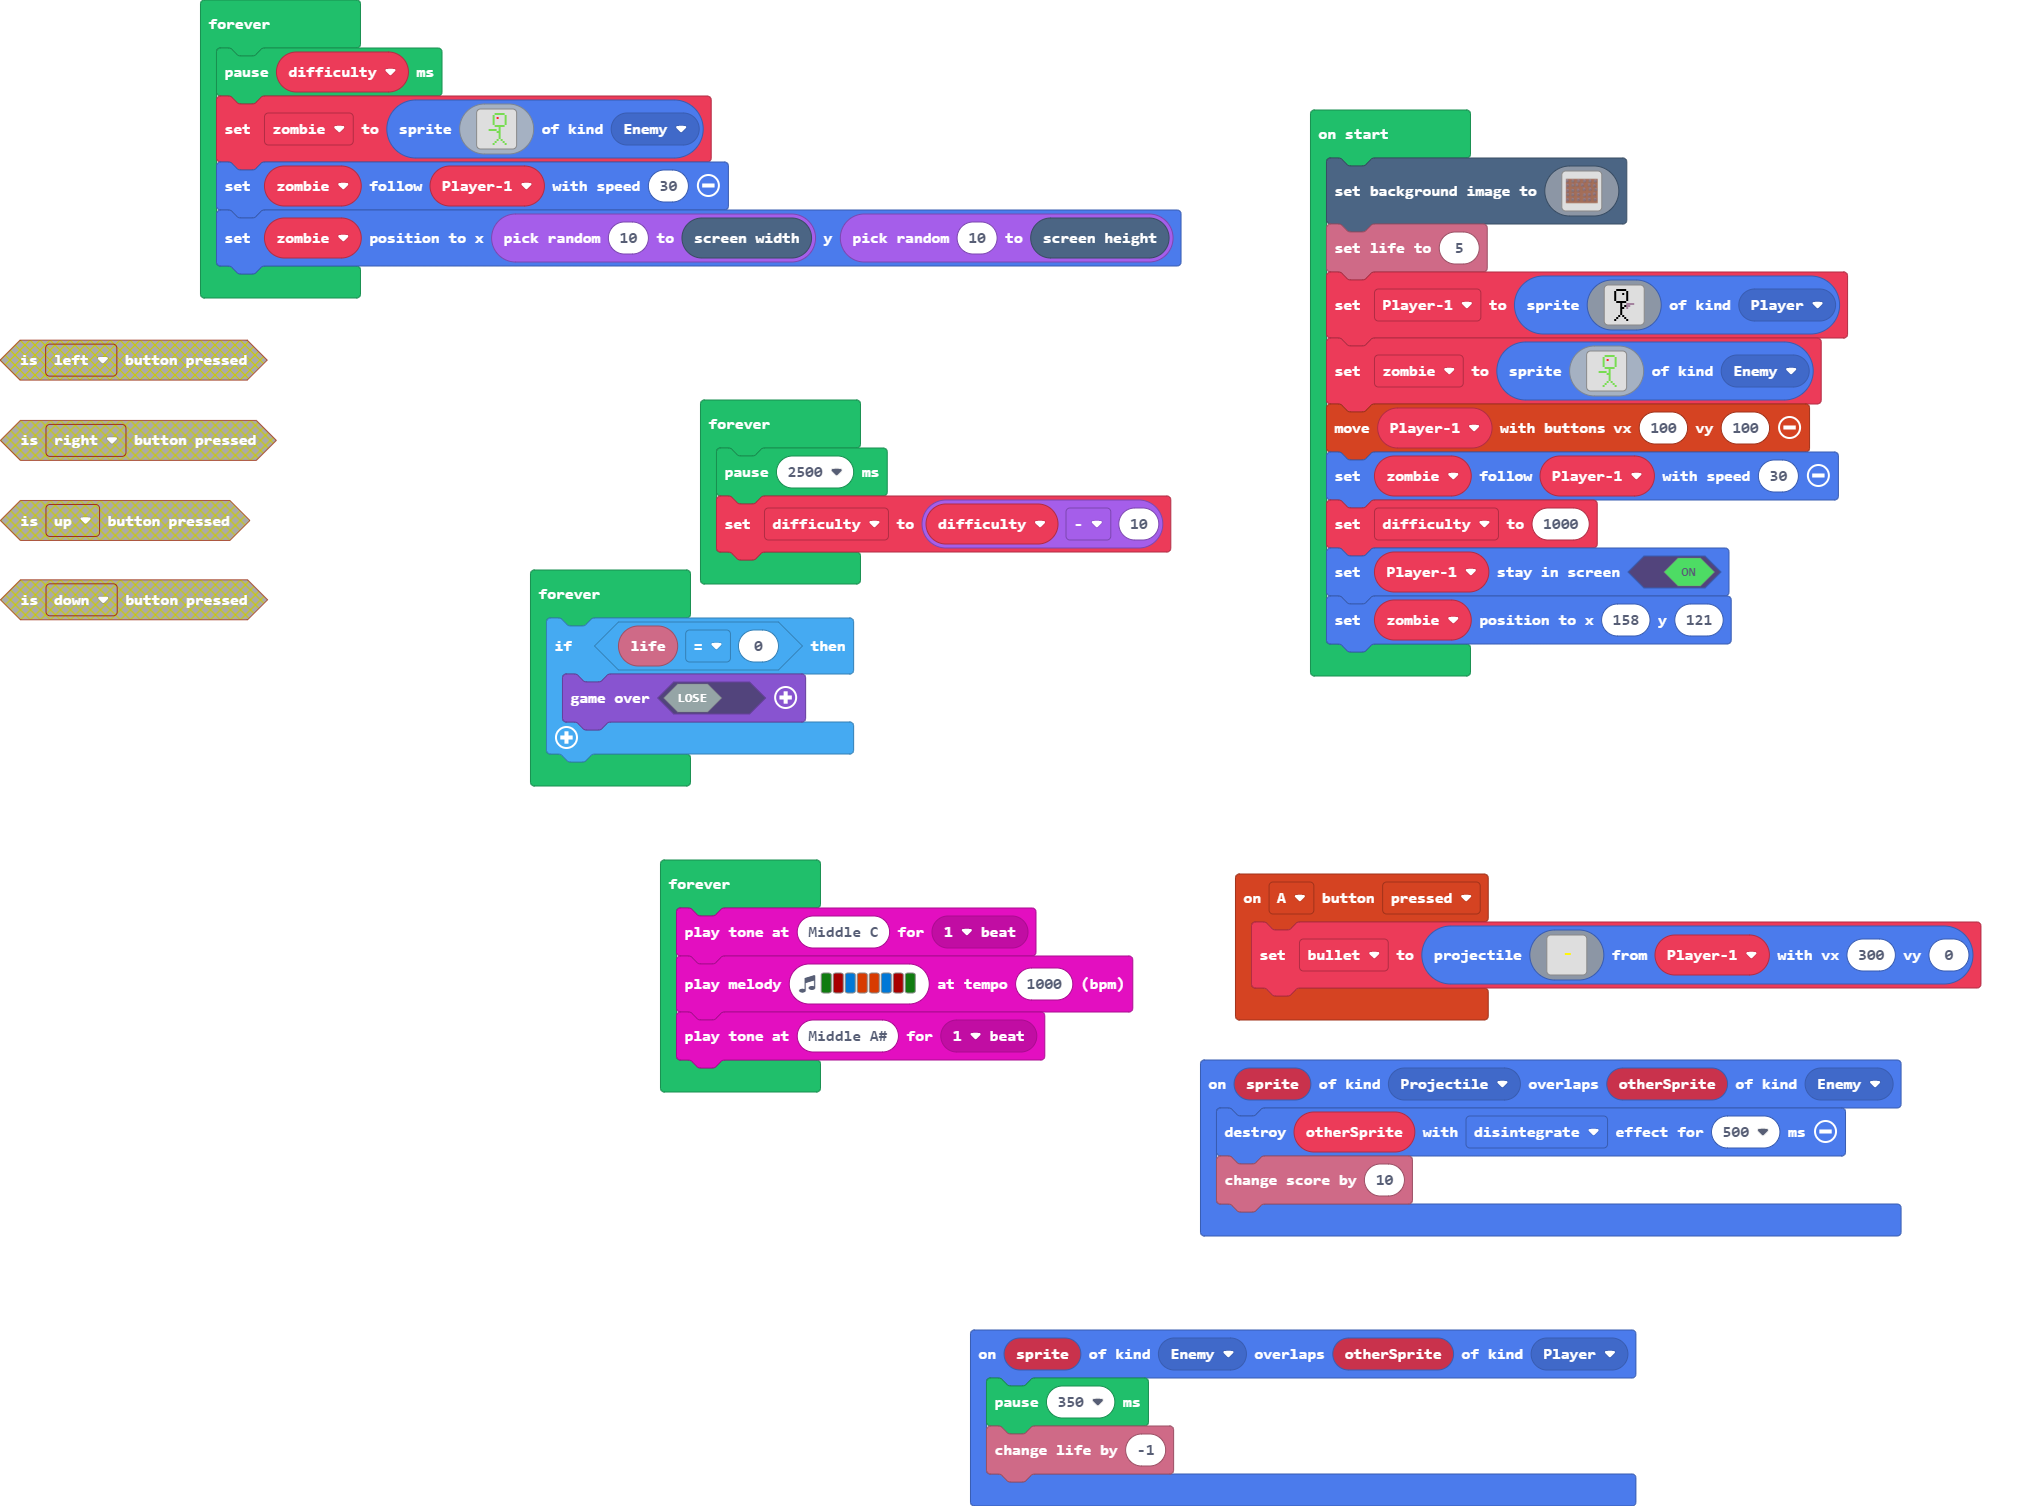
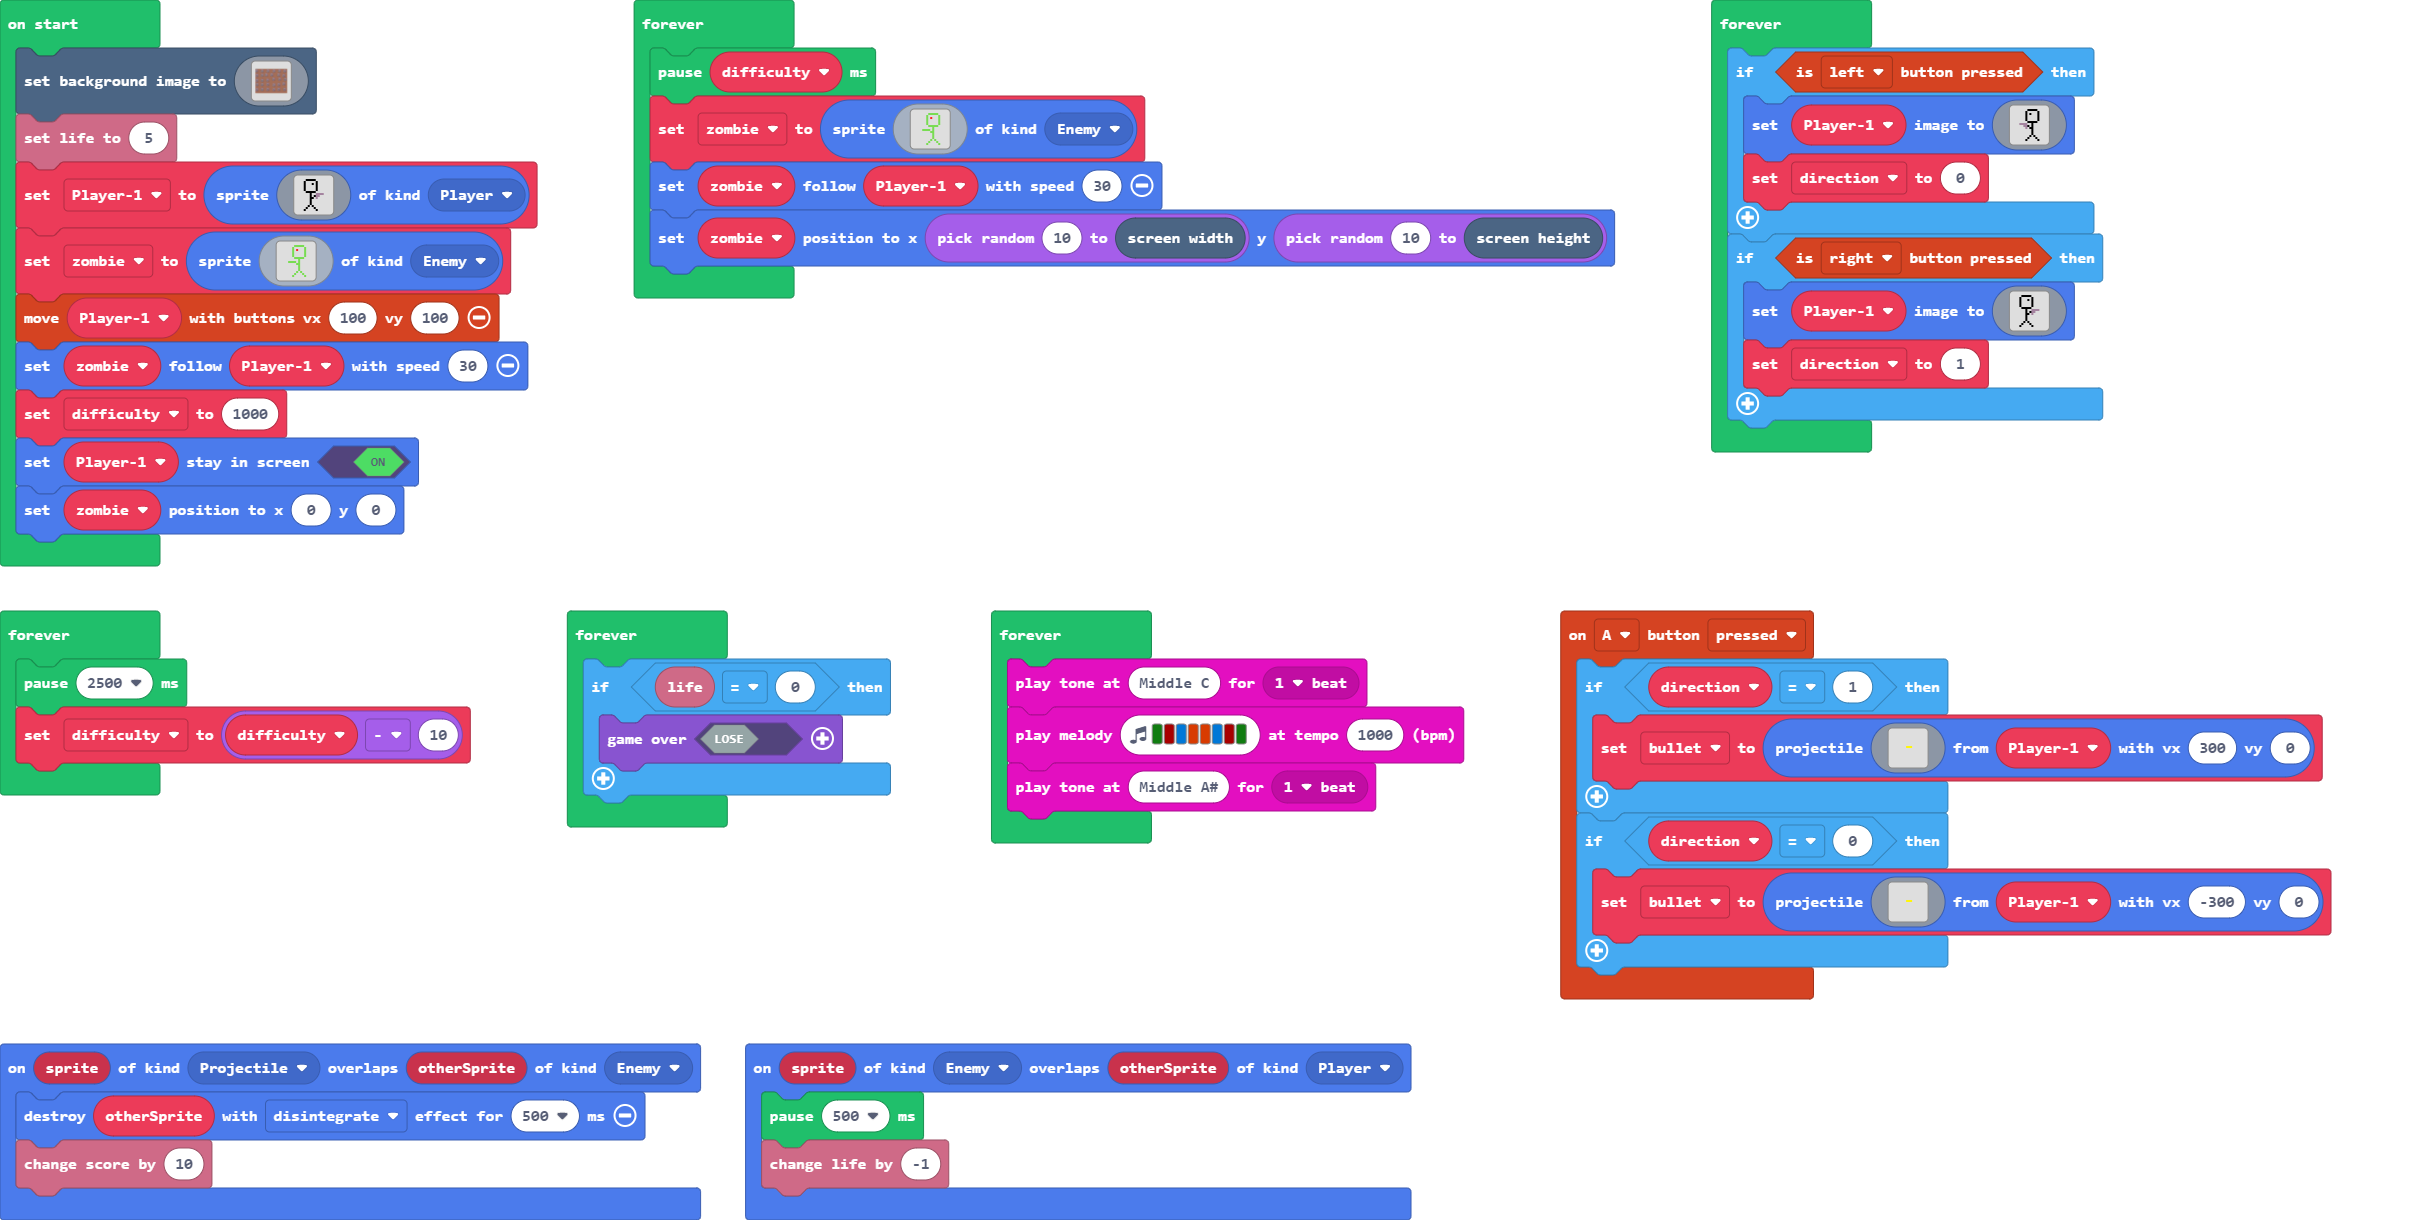
Update main.blocks, main.ts

diff --git a/main.ts b/main.ts
@@ -1,25 +1,47 @@
 controller.A.onEvent(ControllerButtonEvent.Pressed, function () {
-    bullet = sprites.createProjectileFromSprite(img`
-        . . . . . . . . . . . . . . . . 
-        . . . . . . . . . . . . . . . . 
-        . . . . . . . . . . . . . . . . 
-        . . . . . . . . . . . . . . . . 
-        . . . . . . . . . . . . . . . . 
-        . . . . . . . . . . . . . . . . 
-        . . . . . . . . . . . . . . . . 
-        . . . . . . . 5 5 5 . . . . . . 
-        . . . . . . . . . . . . . . . . 
-        . . . . . . . . . . . . . . . . 
-        . . . . . . . . . . . . . . . . 
-        . . . . . . . . . . . . . . . . 
-        . . . . . . . . . . . . . . . . 
-        . . . . . . . . . . . . . . . . 
-        . . . . . . . . . . . . . . . . 
-        . . . . . . . . . . . . . . . . 
-        `, Player1, 300, 0)
+    if (direction == 1) {
+        bullet = sprites.createProjectileFromSprite(img`
+            . . . . . . . . . . . . . . . . 
+            . . . . . . . . . . . . . . . . 
+            . . . . . . . . . . . . . . . . 
+            . . . . . . . . . . . . . . . . 
+            . . . . . . . . . . . . . . . . 
+            . . . . . . . . . . . . . . . . 
+            . . . . . . . . . . . . . . . . 
+            . . . . . . . 5 5 5 . . . . . . 
+            . . . . . . . . . . . . . . . . 
+            . . . . . . . . . . . . . . . . 
+            . . . . . . . . . . . . . . . . 
+            . . . . . . . . . . . . . . . . 
+            . . . . . . . . . . . . . . . . 
+            . . . . . . . . . . . . . . . . 
+            . . . . . . . . . . . . . . . . 
+            . . . . . . . . . . . . . . . . 
+            `, Player1, 300, 0)
+    }
+    if (direction == 0) {
+        bullet = sprites.createProjectileFromSprite(img`
+            . . . . . . . . . . . . . . . . 
+            . . . . . . . . . . . . . . . . 
+            . . . . . . . . . . . . . . . . 
+            . . . . . . . . . . . . . . . . 
+            . . . . . . . . . . . . . . . . 
+            . . . . . . . . . . . . . . . . 
+            . . . . . . . . . . . . . . . . 
+            . . . . . . . 5 5 5 . . . . . . 
+            . . . . . . . . . . . . . . . . 
+            . . . . . . . . . . . . . . . . 
+            . . . . . . . . . . . . . . . . 
+            . . . . . . . . . . . . . . . . 
+            . . . . . . . . . . . . . . . . 
+            . . . . . . . . . . . . . . . . 
+            . . . . . . . . . . . . . . . . 
+            . . . . . . . . . . . . . . . . 
+            `, Player1, -300, 0)
+    }
 })
 sprites.onOverlap(SpriteKind.Enemy, SpriteKind.Player, function (sprite, otherSprite) {
-    pause(350)
+    pause(500)
     info.changeLifeBy(-1)
 })
 sprites.onOverlap(SpriteKind.Projectile, SpriteKind.Enemy, function (sprite, otherSprite) {
@@ -27,6 +49,7 @@ sprites.onOverlap(SpriteKind.Projectile, SpriteKind.Enemy, function (sprite, oth
     info.changeScoreBy(10)
 })
 let bullet: Sprite = null
+let direction = 0
 let Player1: Sprite = null
 scene.setBackgroundImage(img`
     eeeeeeeeeeeeeeeeeeeeeeeeeeeeeeeeeeeeeeeeeeeeeeeeeeeeeeeeeeeeeeeeeeeeeeeeeeeeeeeeeeeeeeeeeeeeeeeeeeeeeeeeeeeeeeeeeeeeeeeeeeeeeeeeeeeeeeeeeeeeeeeeeeeeeeeeeeeeeeee
@@ -191,7 +214,7 @@ controller.moveSprite(Player1, 100, 100)
 zombie.follow(Player1, 30)
 let difficulty = 1000
 Player1.setStayInScreen(true)
-zombie.setPosition(158, 121)
+zombie.setPosition(0, 0)
 forever(function () {
     pause(difficulty)
     zombie = sprites.create(img`
@@ -214,6 +237,50 @@ forever(function () {
         `, SpriteKind.Enemy)
     zombie.follow(Player1, 30)
     zombie.setPosition(randint(10, scene.screenWidth()), randint(10, scene.screenHeight()))
+})
+forever(function () {
+    if (controller.left.isPressed()) {
+        Player1.setImage(img`
+            . . . . . . . f f f f f . . . . 
+            . . . . . . f . . . . . f . . . 
+            . . . . . . f . f . . . f . . . 
+            . . . . . . f . . . . . f . . . 
+            . . . . . . f . . . . . f . . . 
+            . . . . . . f . . . . . f . . . 
+            . . . . . . . f f f f f . . . . 
+            . . . b b b b . . f . . . . . . 
+            . . . . . b b f . f . . . . . . 
+            . . . . . . b . f f . . . . . . 
+            . . . . . . . . . f . . . . . . 
+            . . . . . . . . . f . . . . . . 
+            . . . . . . . . . f . . . . . . 
+            . . . . . . . . f . f . . . . . 
+            . . . . . . . f . . . f . . . . 
+            . . . . . . f . . . . . f . . . 
+            `)
+        direction = 0
+    }
+    if (controller.right.isPressed()) {
+        Player1.setImage(img`
+            . . . . f f f f f . . . . . . . 
+            . . . f . . . . . f . . . . . . 
+            . . . f . . . f . f . . . . . . 
+            . . . f . . . . . f . . . . . . 
+            . . . f . . . . . f . . . . . . 
+            . . . f . . . . . f . . . . . . 
+            . . . . f f f f f . . . . . . . 
+            . . . . . . f . . b b b b . . . 
+            . . . . . . f . f b b . . . . . 
+            . . . . . . f f . b . . . . . . 
+            . . . . . . f . . . . . . . . . 
+            . . . . . . f . . . . . . . . . 
+            . . . . . . f . . . . . . . . . 
+            . . . . . f . f . . . . . . . . 
+            . . . . f . . . f . . . . . . . 
+            . . . f . . . . . f . . . . . . 
+            `)
+        direction = 1
+    }
 })
 forever(function () {
     pause(2500)
